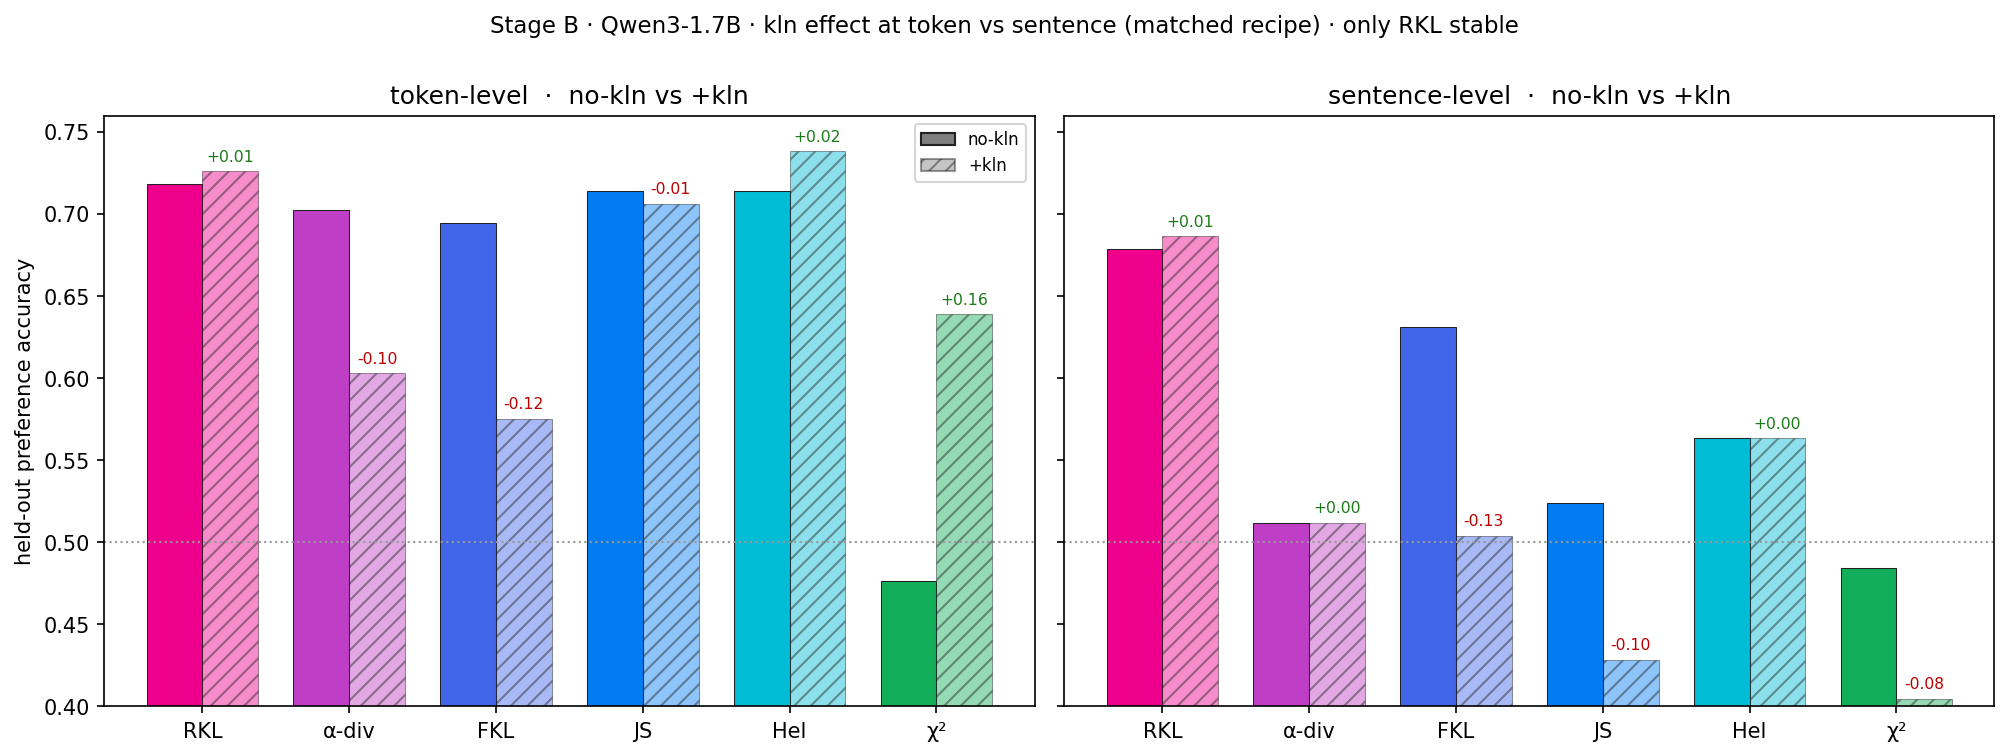
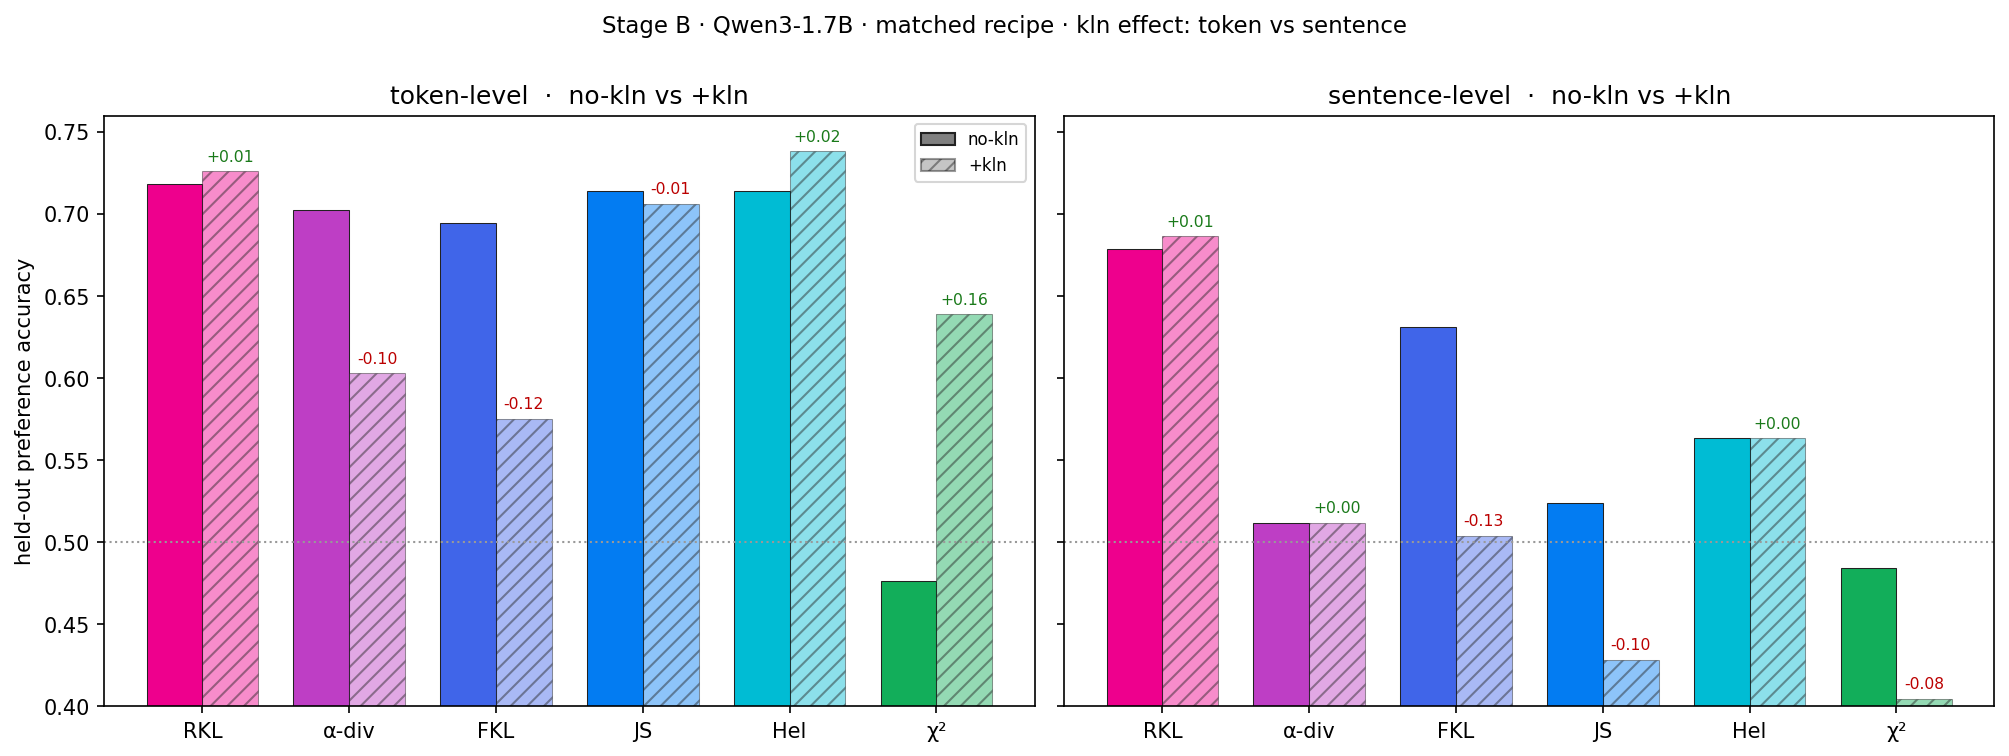
light campaign (48 tasks) done: kln consistently helps at light (both granularities)
fig_stage_2x2 --recipe {matched,light}. LIGHT recipe (noise-visible): kln is uniformly + or neutral at
BOTH token and sentence (token FKL+.07 JS+.06 Hel+.03; sentence all +.00..+.02) -- confirms 'kln = a
variance-reduction that helps when noise dominates'. Contrast matched (jagged: sentence kln hurts).
Caveats (honest): light UNDERTRAINS at coarse (s64/sentence ~chance for all incl RKL, lr 1e-6/1ep too
weak), and RKL is NOT invariant at light (.657->.510) -- a CLAMP artifact: RKL score = sum clamp(log
u_k), so token=sentence unless the clamp binds; chosen-SFT init makes log u large so sentence-sums hit
+-15 (degradation tracks step size). matched (mild u) rarely clamps -> RKL invariant there.

Changed region(s): [[0.2469, 0.0, 0.7715, 0.0608]]

diff --git a/llm/fig_stage_2x2.py b/llm/fig_stage_2x2.py
@@ -33,15 +33,21 @@ def val(d, div, tag):
 
 def main():
     ap = argparse.ArgumentParser()
-    ap.add_argument("--dir", default="results/matched")
-    ap.add_argument("--out", default="results/stageB_matched_token-vs-sentence_no-kln-vs-kln")
+    ap.add_argument("--recipe", default="matched", choices=["matched", "light"])
+    ap.add_argument("--dir", default=None)
+    ap.add_argument("--out", default=None)
     args = ap.parse_args()
 
     order = [k for k in KEYS if k != "euc"]
-    cells = {  # (granularity) -> (no-kln tag, kln tag)
-        "token":    ("match1p7b", "kln_match1p7b"),
-        "sentence": ("newline_match1p7b", "newline_kln_match1p7b"),
-    }
+    if args.recipe == "light":                          # light tags: stageB_{div}_{token,token_kln,newline,newline_kln}_light1p7b
+        args.dir = args.dir or "results/sft1p7b"
+        cells = {"token": ("token_light1p7b", "token_kln_light1p7b"),
+                 "sentence": ("newline_light1p7b", "newline_kln_light1p7b")}
+    else:
+        args.dir = args.dir or "results/matched"
+        cells = {"token": ("match1p7b", "kln_match1p7b"),
+                 "sentence": ("newline_match1p7b", "newline_kln_match1p7b")}
+    args.out = args.out or f"results/stageB_{args.recipe}_token-vs-sentence_no-kln-vs-kln"
     x = np.arange(len(order)); w = 0.38
     fig, axes = plt.subplots(1, 2, figsize=(13.5, 5.0), sharey=True)
     for ax, (gran, (t0, t1)) in zip(axes, cells.items()):
@@ -59,7 +65,7 @@ def main():
     axes[0].legend(handles=[Patch(facecolor="0.5", edgecolor="#222", label="no-kln"),
                             Patch(facecolor="0.5", alpha=0.45, hatch="///", edgecolor="#222", label="+kln")],
                    fontsize=8, loc="upper right")
-    fig.suptitle("Stage B · Qwen3-1.7B · kln effect at token vs sentence (matched recipe) · only RKL stable",
+    fig.suptitle(f"Stage B · Qwen3-1.7B · {args.recipe} recipe · kln effect: token vs sentence",
                  fontsize=11, y=1.0)
     fig.tight_layout(); fig.savefig(args.out + ".png", dpi=150, bbox_inches="tight")
     print("wrote", args.out + ".png")
